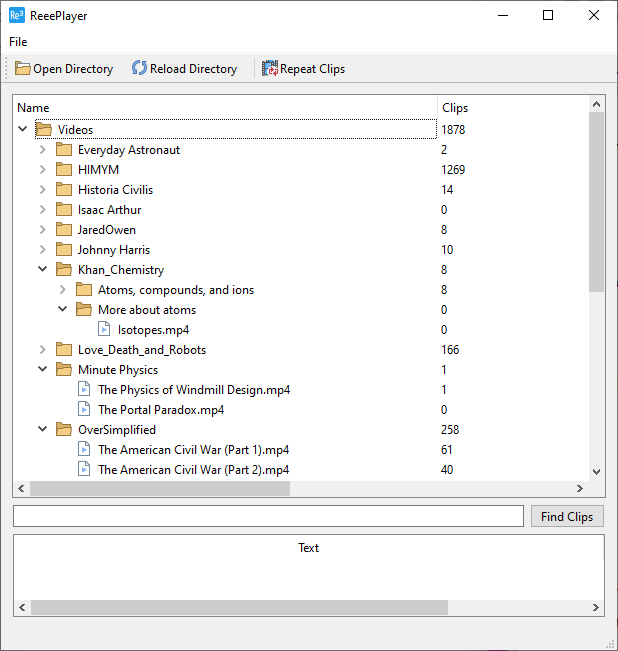
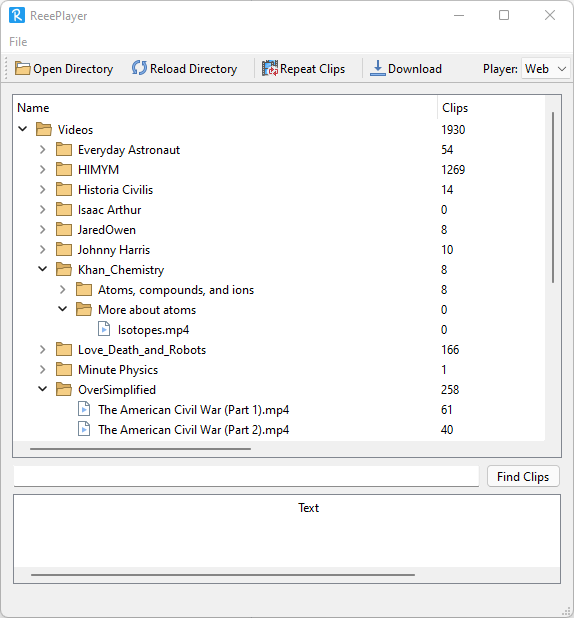
Update doc

diff --git a/doc/README.ru.md b/doc/README.ru.md
@@ -5,7 +5,7 @@
 - Скачивание медиафайлов с различных ресурсов
 - Просмотр видео- и аудиофайлов с двумя субтитрами (пока только внешними)
 - Изменение скорости воспроизведения без изменения темпа
-- Пропуск беззвучных и тихих фрагментов в реальном времени
+- Пропуск, перемотка и уменьшение громкости неголосовых фрагментов в реальном времени
 - Быстрый выбор и сохранение видеоклипов вместе с текстом
 
 ## Ссылки в соцсетях
@@ -85,6 +85,12 @@ ReeePlayer использует [yt-dlp](https://github.com/yt-dlp/yt-dlp), по
 
 ![](download_to.png?raw=true)
 
+### Выбор движка видеоплеера
+
+ReeePlayer поддерживает 2 движка: VLC и Web (Chromium). VLC поддерживает больше форматов и быстрее перематывает, но Web плавнее изменяет скорость воспроизведения. Попробуйте оба.
+
+![](video_engine.png?raw=true)
+
 ### Просмотр
 
 При запуске просмотра видеофайла с именем вида `x.<ext>` приложение осуществляет поиск файлов субтитров с именем вида `x<lang>.<srt или vtt>` в том же каталоге. Доступные субтитры можно выбрать из выпадающего списка ![](./subs_cmb.png?raw=true) в обоих панелях. 
@@ -97,15 +103,17 @@ ReeePlayer использует [yt-dlp](https://github.com/yt-dlp/yt-dlp), по
 
 - `Space` – воспроизведение/пауза
 - `Left`, `Right` – перемотка назад или вперед на 2 секунды
-- `3`, `4`, `5`, `6`, `7`, `8` – скорость воспроизведения: 0.5, 0.75, 1, 1.25, 1.5, 2 от нормальной
+- `5`, `6`, `7`, `8`, `9`, `0`, `-`, `=`, `Backspace` – скорость воспроизведения: 0.5, 0.6, 0.7, 0.8, 0.9, 1.0, 1.25, 1.5, 2.0 от нормальной
 - `1`, `2` – показать текущий текст первых/вторых субтитров, если он скрыт
 - `Enter` – добавить клип
 
-Пропускать фрагменты с тишиной можно нажав кнопку ![](btn_jumpcutter.png?raw=true) на панели задач. Рекомендуется настроить обнаружение тихих фрагментов нажатием на ![](jumpcutter_settings.png?raw=true).
+Пропускать или ускореннно перематывать неголосовые фрагменты можно нажав кнопку ![](btn_jumpcutter.png?raw=true) на панели задач. Рекомендуется настроить обнаружение голосовых фрагментов нажатием на ![](jumpcutter_settings.png?raw=true).
 
  ![](jumpcutter_window.png?raw=true)
 
-Существует возможность ускоренной перемотки тихих фрагментов с помощью поля `Skip silence`. Но, к сожалению, плееру требуется время (700-1000 мс), чтобы изменить скорость после перемотки. Чтобы устранить негативный эффект, увеличьте значение в поле `Margin before` до хотя бы 700.
+ ![](VAD_diagram.png?raw=true)
+
+К сожалению, плееру требуется время (300-500 мс), чтобы изменить скорость после быстрой перемотки. Чтобы устранить негативный эффект, увеличьте значение в поле `Margin before`.
 
 ### Добавление клипа
 
@@ -176,3 +184,9 @@ cmake --build . --config Release
 
 - Иконки с сайта [Icons8.com](http://Icons8.com)
 - Кадры, показанные в этом руководстве, из видео с канала [OverSimplified](https://www.youtube.com/c/OverSimplified/videos)
+- Voice Activity Detector основан на модели [silero-vad](https://github.com/snakers4/silero-vad)
+- [yt-dlp](https://github.com/yt-dlp/yt-dlp) для скачивания видео
+- [ffmpeg](https://www.ffmpeg.org/) для генерации wav-файлов
+- [Библиотека](https://github.com/adamstark/AudioFile) для чтения wav-файлов
+
+

diff --git a/README.md b/README.md
@@ -7,7 +7,7 @@ The ReeePlayer application is designed for spaced repetition of fragments (clips
 - Download mediafiles from different sites
 - Watch video and audio files with two subtitles (by now, only external)
 - Change the playback speed without changing the tempo
-- Skips silent parts in real time
+- Skip, fast forward and volume down non-voice parts in real time
 - Quickly select and save video clips with text
 
 ## Social Network Links
@@ -91,6 +91,12 @@ To save time on specifying the directory you can right-click the mouse on the di
 
 ![](doc/download_to.png?raw=true)
 
+### Select video engine
+
+ReeePlayer supports 2 video player engines: VLC and Web (Chromium). VLC supports more formats and rewinds faster, but Web changes the playback speed more smoothly. Try them both.
+
+![](doc/video_engine.png?raw=true)
+
 ### Watching
 
 When you start watching a video file named `x.<ext>`, the application searches for subtitle files named `x<lang>.<srt or vtt>` in the same directory. Available subtitles can be selected from the dropdown list ![](doc/subs_cmb.png?raw=true) in both panels. 
@@ -103,15 +109,17 @@ Hotkeys:
 
 - `Space` - play/pause
 - `Left`, `Right` - rewind or forward for 2 seconds
-- `3`, `4`, `5`, `6`, `7`, `8` - playback speed: 0.5, 0.75, 1, 1.25, 1.5, 2 of normal
+- `5`, `6`, `7`, `8`, `9`, `0`, `-`, `=`, `Backspace` - playback speed: 0.5, 0.6, 0.7, 0.8, 0.9, 1.0, 1.25, 1.5, 2.0 of normal
 - `1`, `2` - show the current text of the first/second subtitles if they are hidden
 - `Enter` - add a clip
 
-You can skip the silent parts by pressing the button ![](doc/btn_jumpcutter.png?raw=true) on the taskbar. It is recommend to adjust the detection of silence fragments by pressing ![](doc/jumpcutter_settings.png?raw=true).
+You can skip or fast forward the non-voice parts by pressing the button ![](doc/btn_jumpcutter.png?raw=true) on the taskbar. It is recommend to adjust the voice detection by pressing ![](doc/jumpcutter_settings.png?raw=true).
 
  ![](doc/jumpcutter_window.png?raw=true)
 
-It is possible to fast rewind silent fragments with `Silence speed` field. But, unfortunately, it takes time (700-1000 ms) for the player to change the speed after fast-forwarding. To eliminate the negative effect, increase the value in the `Margin before` field to at least 700.
+ ![](doc/VAD_diagram.png?raw=true)
+
+Unfortunately, it takes time (~300-500 ms) for the player to change the speed after fast-forwarding. To eliminate the negative effect, increase the value in the `Margin before`.
 
 ### Adding a clip
 
@@ -182,3 +190,7 @@ cmake --build . --config Release
 
 - Icons by [Icons8.com](http://Icons8.com)
 - The footage shown in this guide is from [OverSimplified](https://www.youtube.com/c/OverSimplified/videos) channel
+- Voice Activity Detector based on [silero-vad model](https://github.com/snakers4/silero-vad)
+- [yt-dlp](https://github.com/yt-dlp/yt-dlp) for download videos
+- [ffmpeg](https://www.ffmpeg.org/) for generate wav-files
+- [Wav-file reader](https://github.com/adamstark/AudioFile)
